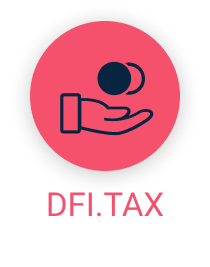
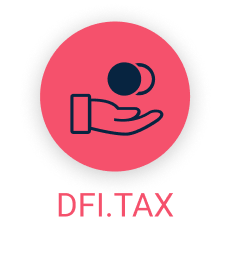
fix: dfxbutton styles

diff --git a/mobile-app/app/screens/AppNavigator/screens/Balances/components/DfxButtons.tsx b/mobile-app/app/screens/AppNavigator/screens/Balances/components/DfxButtons.tsx
@@ -2,7 +2,9 @@ import * as React from 'react'
 import { tailwind } from '@tailwind'
 import { StyleSheet, ImageSourcePropType, Linking, TouchableOpacity, TouchableOpacityProps, Image, View } from 'react-native'
 import { useWalletContext } from '@shared-contexts/WalletContext'
+import { getEnvironment } from '@environment'
 import { useLanguageContext } from '@shared-contexts/LanguageProvider'
+import * as Updates from 'expo-updates'
 
 import BtnGatewayEn from '@assets/images/dfx_buttons/btn_gateway_en.png'
 import BtnOverviewEn from '@assets/images/dfx_buttons/btn_overview_en.png'
@@ -28,12 +30,24 @@ import BtnGatewayEs from '@assets/images/dfx_buttons/btn_gateway_es.png'
 import BtnOverviewEs from '@assets/images/dfx_buttons/btn_overview_es.png'
 import BtnTaxEs from '@assets/images/dfx_buttons/btn_tax_es.png'
 import BtnDobbyEs from '@assets/images/dfx_buttons/btn_dobby_es.png'
+import { useCallback } from 'react'
 import { useDFXAPIContext } from '@shared-contexts/DFXAPIContextProvider'
 
 export function DfxButtons (): JSX.Element {
   const { address } = useWalletContext()
   const { language } = useLanguageContext()
-  const { dfxGatewayButtonPress } = useDFXAPIContext()
+  const { dfxToken } = useDFXAPIContext()
+
+  const onGatewayButtonPress = useCallback(async () => {
+    await dfxToken().then(async (token) => {
+      const baseUrl = getEnvironment(Updates.releaseChannel).dfxPaymentUrl
+      const url = `${baseUrl}/login?token=${token}`
+      await Linking.openURL(url)
+    })
+      .catch(reason => {
+ throw new Error(reason)
+})
+  }, [dfxToken])
 
   async function onOverviewButtonPress (): Promise<void> {
     const url = `https://defichain-income.com/address/${encodeURIComponent(address)}`
@@ -59,7 +73,7 @@ export function DfxButtons (): JSX.Element {
         it: BtnGatewayIt,
         es: BtnGatewayEs
       },
-      onPress: dfxGatewayButtonPress
+      onPress: onGatewayButtonPress
     },
     {
       img: {
@@ -95,7 +109,7 @@ export function DfxButtons (): JSX.Element {
   ]
 
   return (
-    <View style={tailwind('flex justify-center flex-row mt-3')}>
+    <View style={tailwind('flex flex-row mt-3 px-10 mx-1')}>
       {buttons.filter((b) => !(b.hide ?? false)).map((b, i) => <ImageButton key={i} source={b.img[language] ?? b.img.en} onPress={async () => await b.onPress()} />)}
     </View>
   )
@@ -108,7 +122,7 @@ interface ImageButtonProps extends TouchableOpacityProps {
 export function ImageButton (props: ImageButtonProps): JSX.Element {
   const styles = StyleSheet.create({
     button: {
-      aspectRatio: 1.235, // TODO(davidleomay)
+      aspectRatio: 1.235, // 1.5, // TODO(davidleomay)
       flex: 1
     },
     image: {
